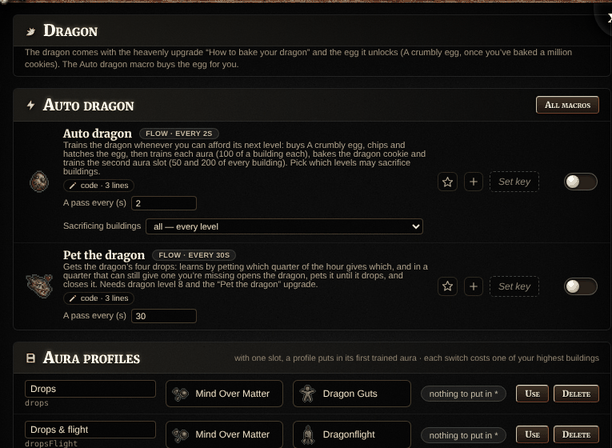
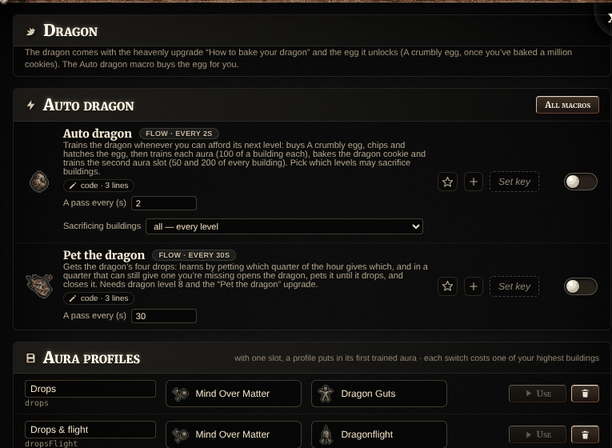
README: built-in Nunix late game, profile rows with In use badges
Claude-Session: https://claude.ai/code/session_01ALSqfrVYPdvMWWjAoC9JVy

diff --git a/README.md b/README.md
@@ -132,7 +132,7 @@ the page. [See every page with a screenshot](#pages).
 <td width="50%" valign="top">
 <b>Managers</b><br>
 <img src="docs/readme/managers.png" alt="The Managers page: the Drops stage's tab with its macros, settings and profiles, and the macro library" width="100%">
-<ul><li>A manager plays an ascension in stages: stage 1 sets things up, each later stage changes only what it needs, and moves on when a condition holds</li><li>Nunix late game comes ready, in three stages: season drops, reindeer, then golden cookie combos</li><li>The Manager widget shows the stage, what moves it on, the numbers it watches and the macros at work</li><li>Edit each stage in its own tab, with a library of macros to switch on or off beside it, or edit the code the stages write</li></ul>
+<ul><li>A manager plays an ascension in stages: stage 1 sets things up, each later stage changes only what it needs, and moves on when a condition holds</li><li>Nunix late game is built in, in three stages: season drops, reindeer, then golden cookie combos (duplicate it to make your own; Revert to default undoes your edits)</li><li>The Manager widget shows the stage, what moves it on, the numbers it watches and the macros at work</li><li>Edit each stage in its own tab, with a library of macros to switch on or off beside it, or edit the code the stages write</li></ul>
 <img src="docs/readme/manager-widget.png" alt="The Manager widget" width="50%">
 </td>
 <td width="50%" valign="top">

diff --git a/changes/readme-built-in-managers.md b/changes/readme-built-in-managers.md
@@ -1,0 +1,6 @@
+---
+bump: patch
+---
+
+- **README:** new Managers, Manager widget (with the research watches), Pantheon, Dragon and Payback screenshots
+  showing the In use badges and trash cans; the Managers summary says Nunix late game is built in.
